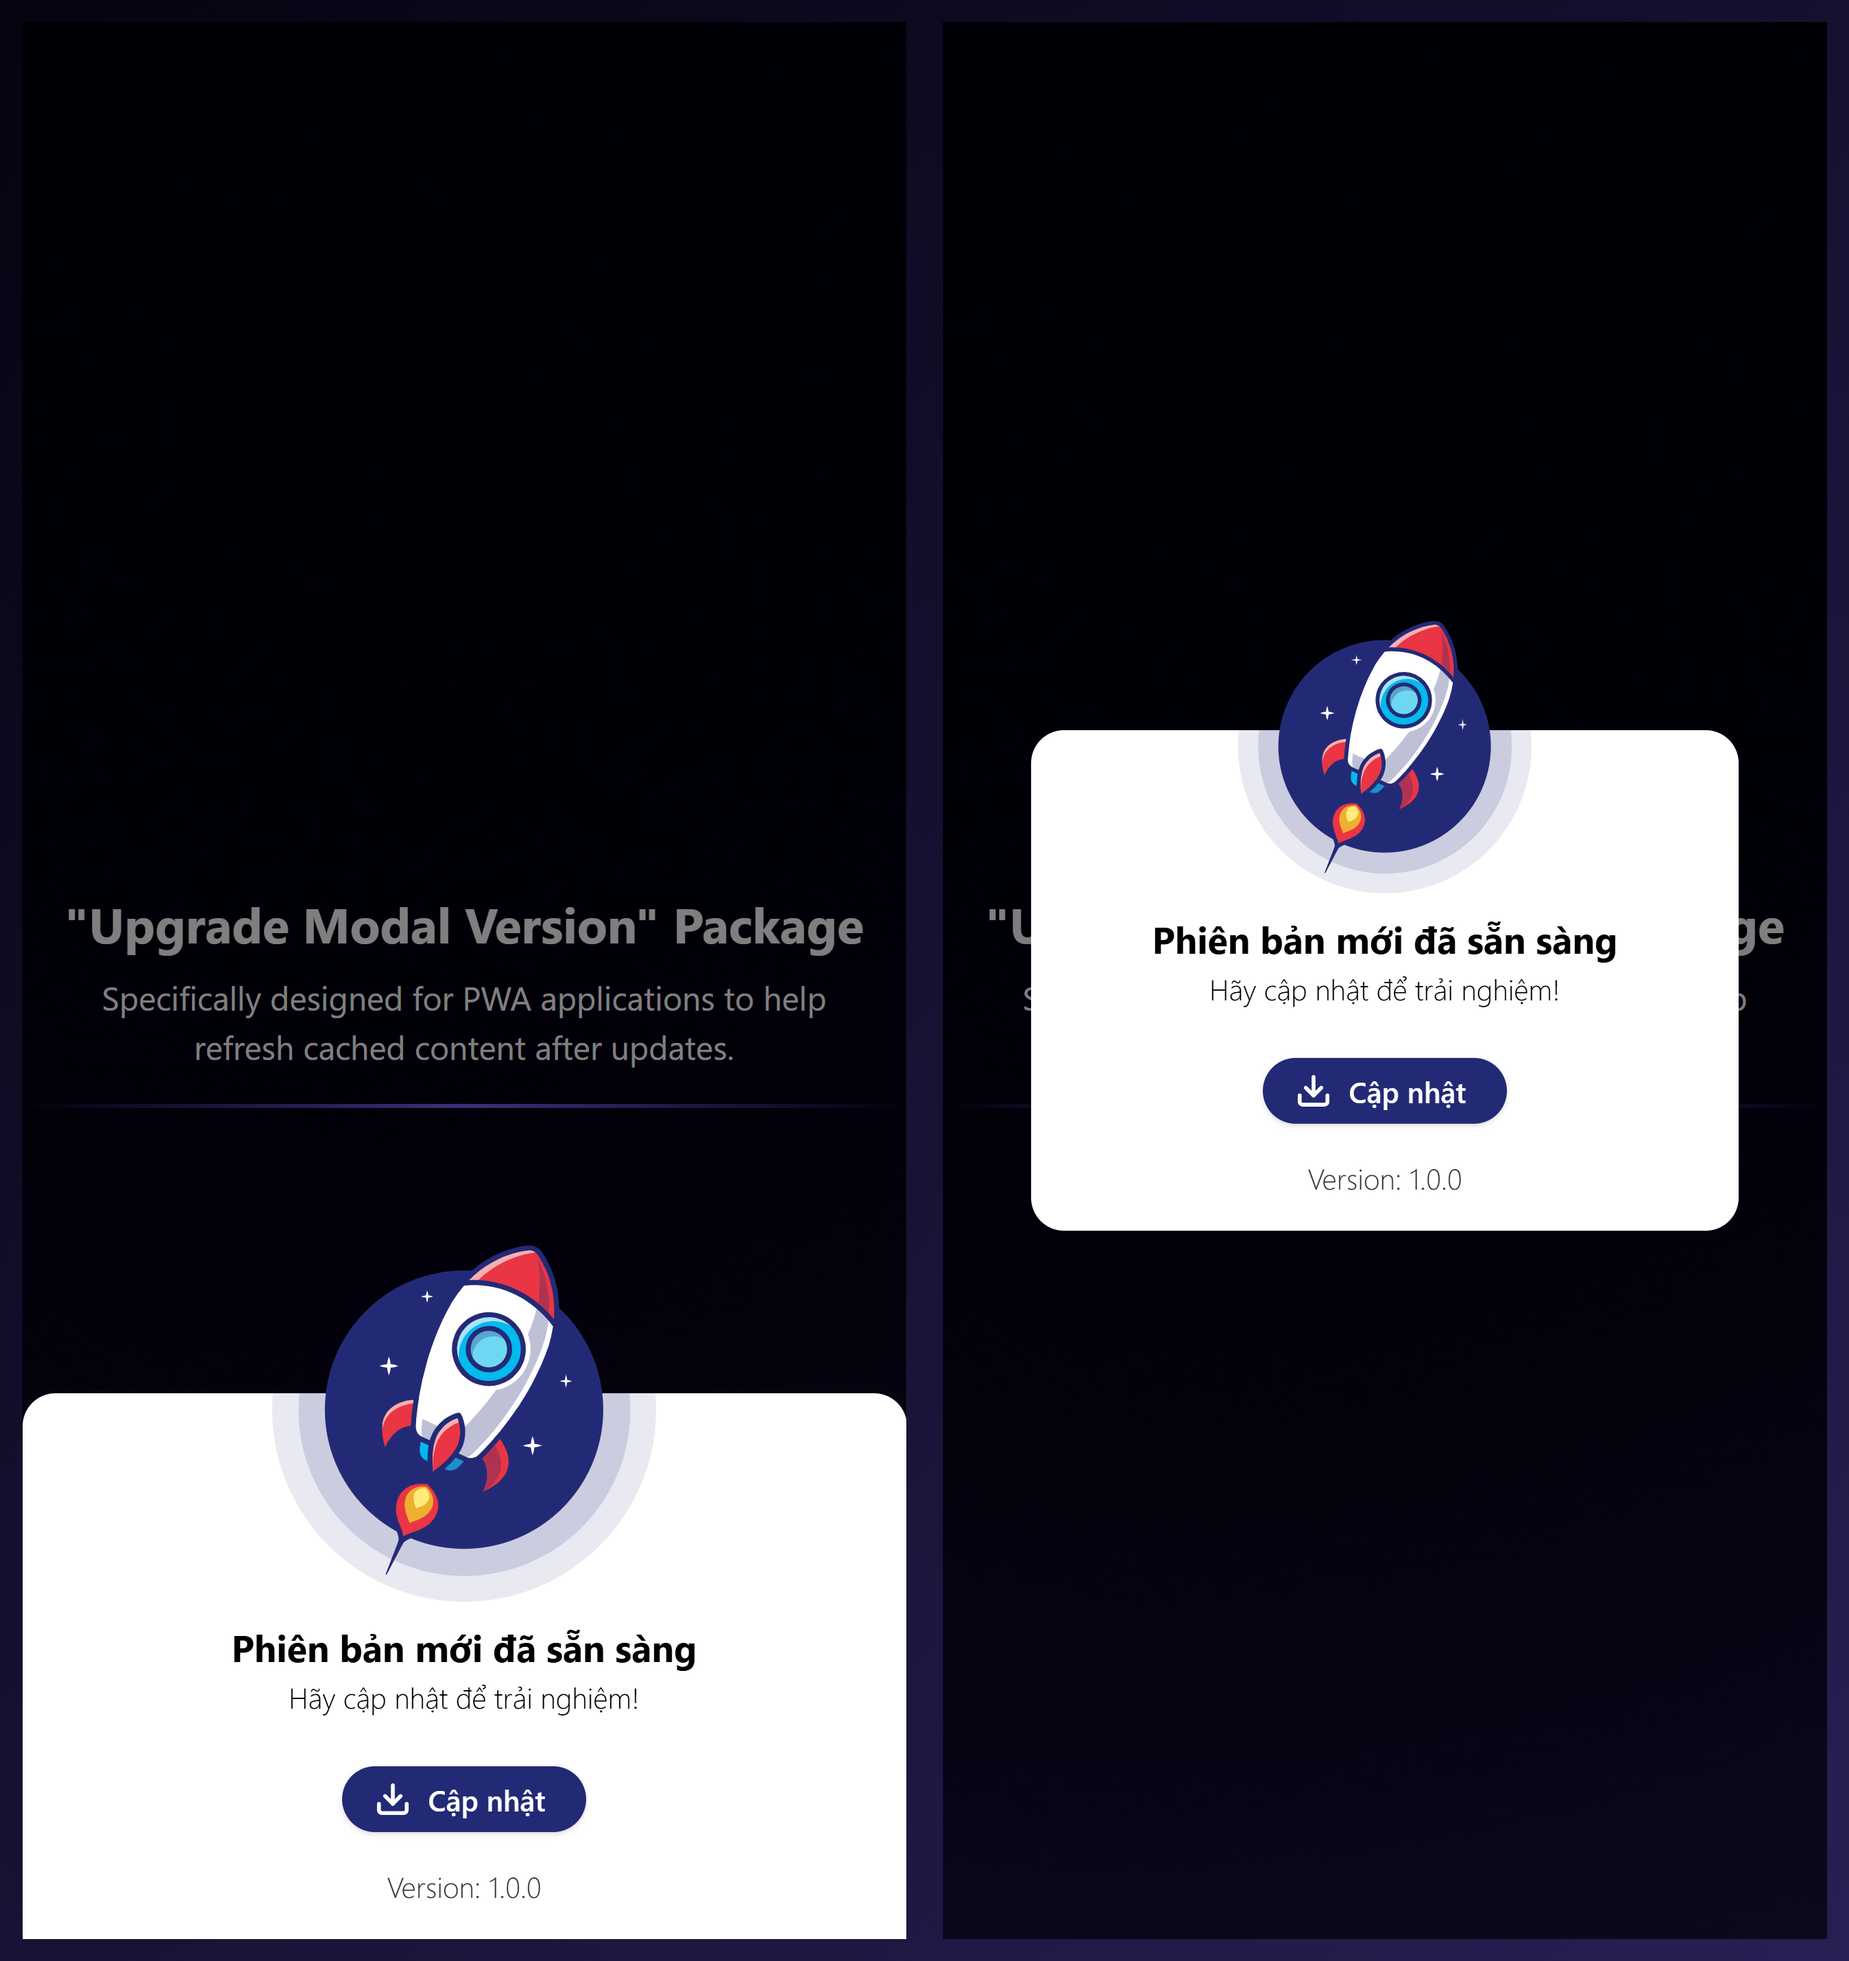
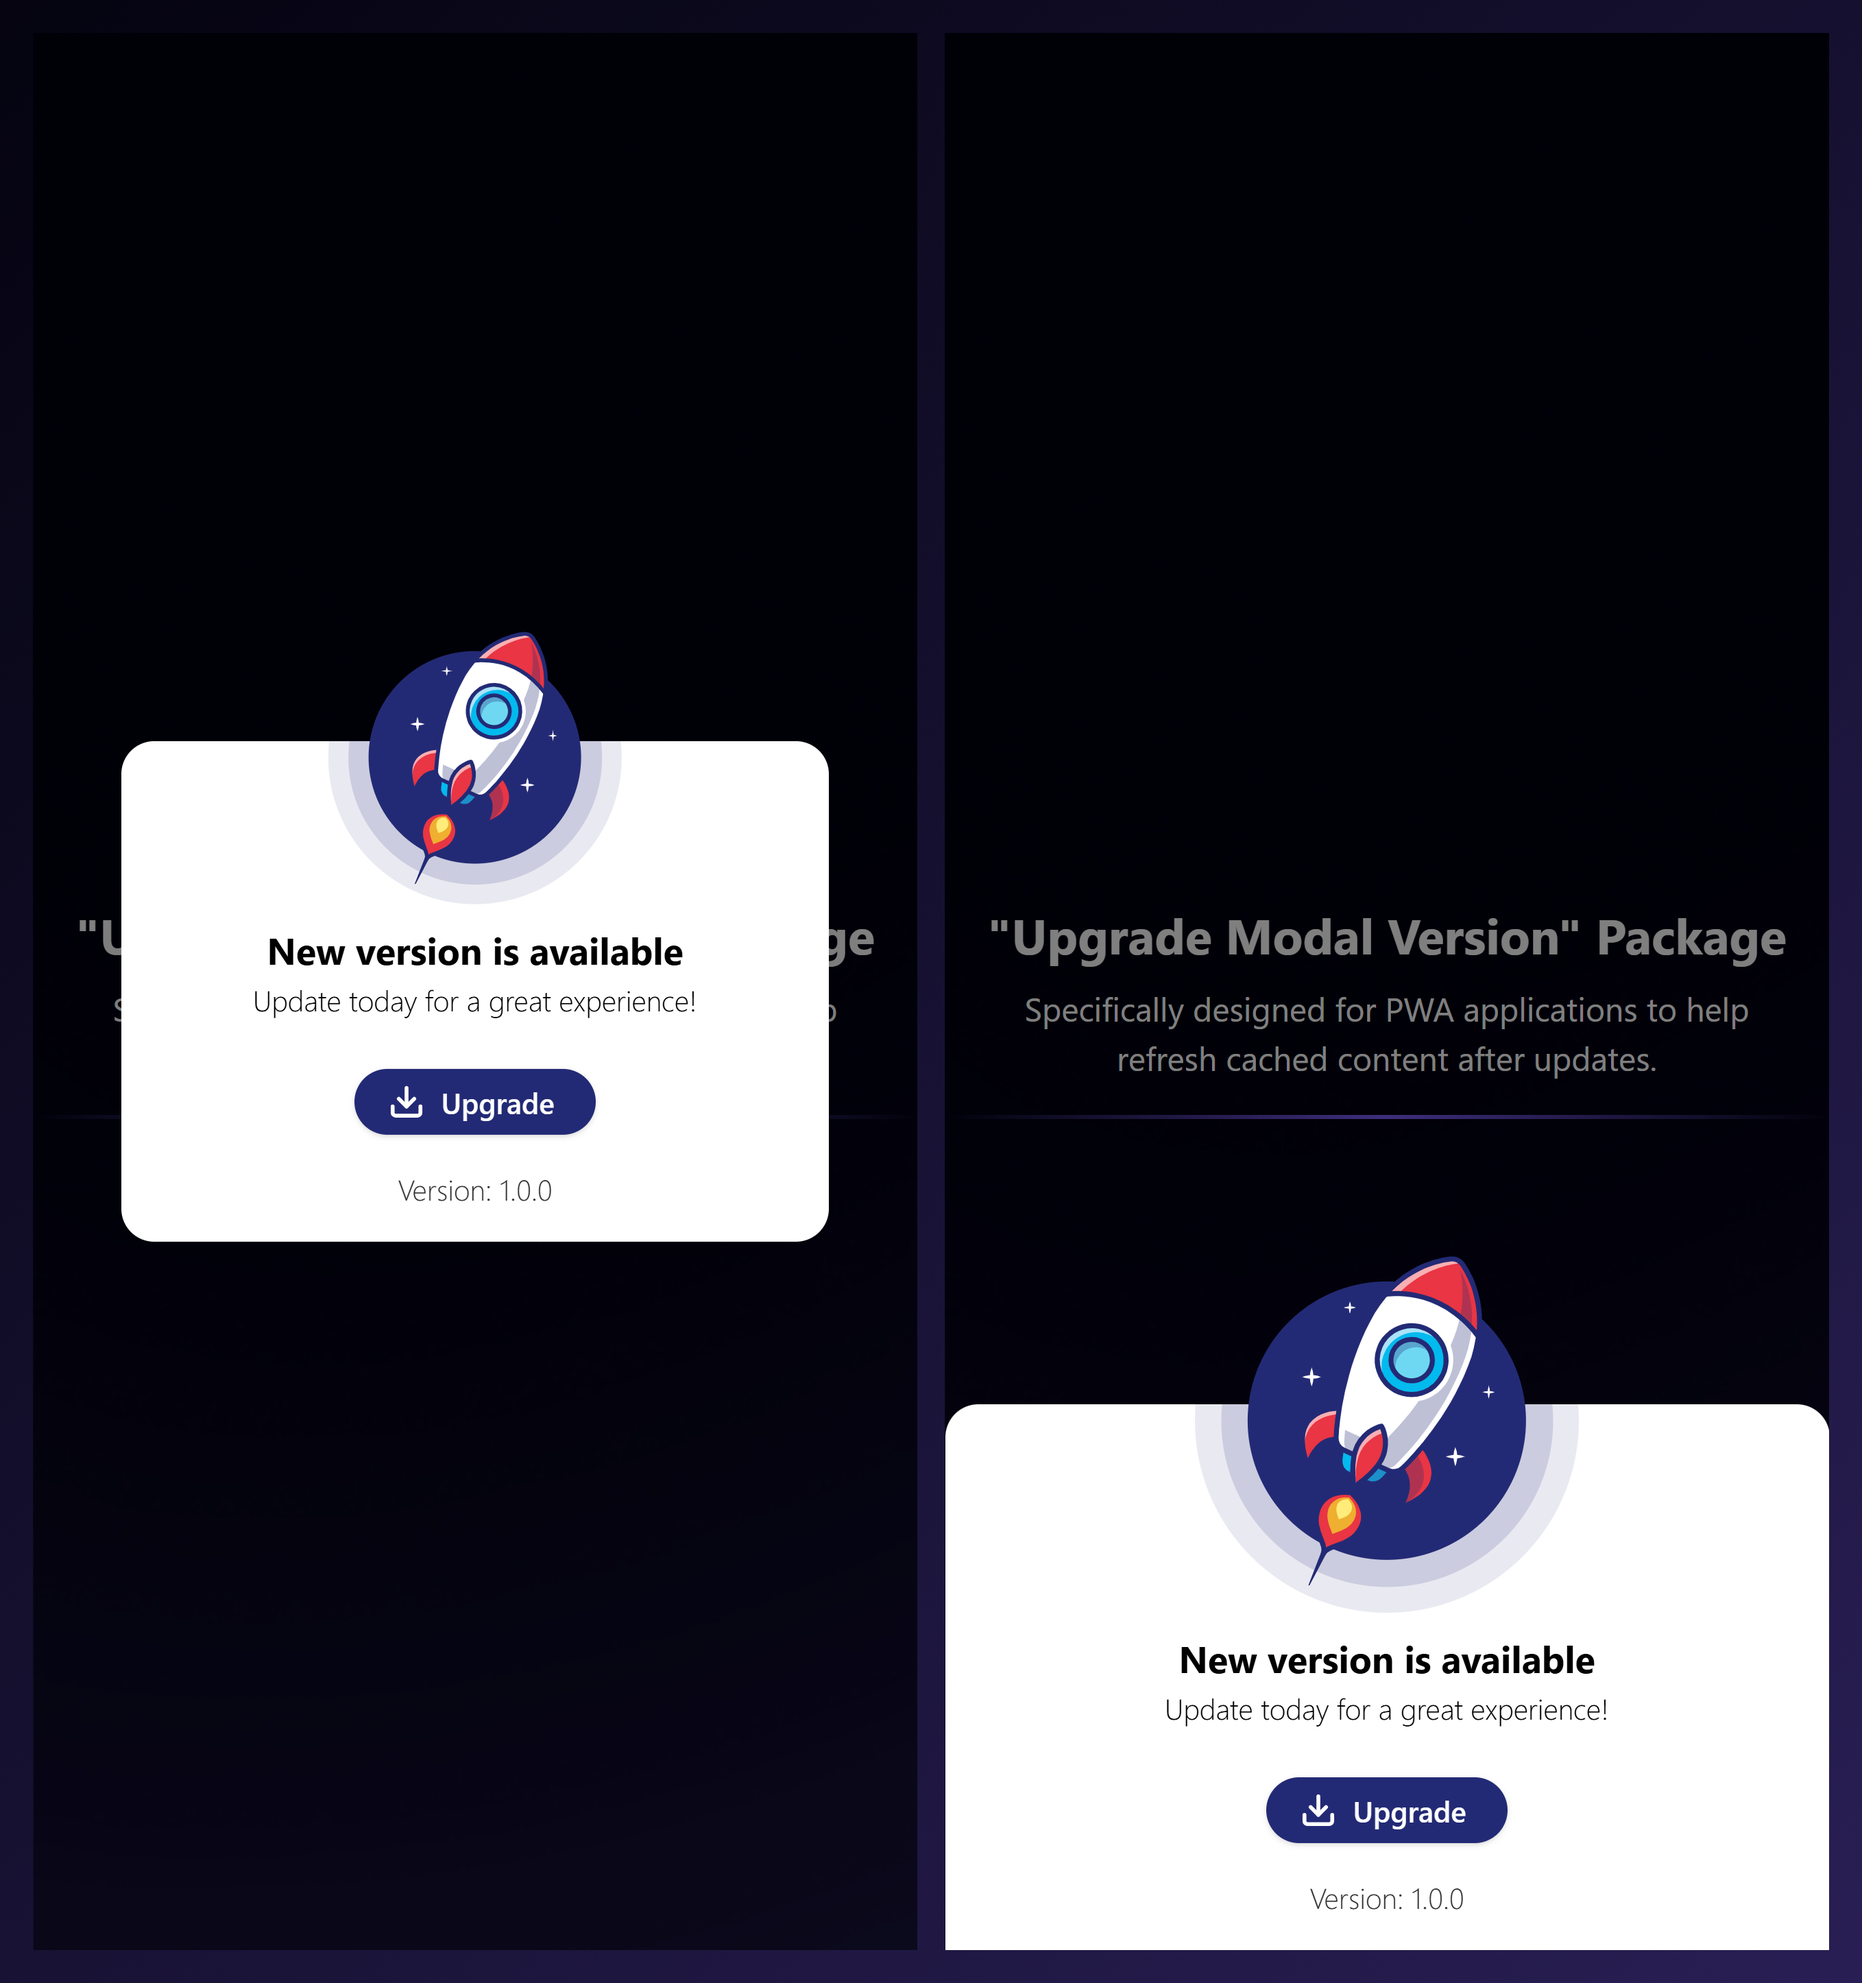
fix: update language

diff --git a/src/components/upgrade-version/upgrade-version-body.tsx b/src/components/upgrade-version/upgrade-version-body.tsx
@@ -132,10 +132,10 @@ export default UpgradeVersionBody;
 const HederDefault = (
   <>
     <div className="w-full text-center text-lg font-bold text-black">
-      Phiên bản mới đã sẵn sàng
+      New version is available
     </div>
     <div className="w-full text-center text-sm font-light text-black">
-      Hãy cập nhật để trải nghiệm!
+      Update today for a great experience!
     </div>
   </>
 );

diff --git a/src/components/upgrade-version/progress-button.tsx b/src/components/upgrade-version/progress-button.tsx
@@ -35,7 +35,7 @@ export function ProgressButton() {
       </span>
 
       <span className="max-w-[70px] overflow-hidden whitespace-nowrap text-nowrap opacity-100 transition-all duration-300 group-data-[load=true]:max-w-0 group-data-[load=true]:opacity-0">
-        Cập nhật
+        Upgrade
       </span>
     </>
   );

diff --git a/src/App.tsx b/src/App.tsx
@@ -23,7 +23,7 @@ function App() {
         </p>
       </div>
 
-      <UpgradeVersionModal type="modal" packageJson={pkg} />
+      <UpgradeVersionModal type="popup" packageJson={pkg} />
     </div>
   );
 }
